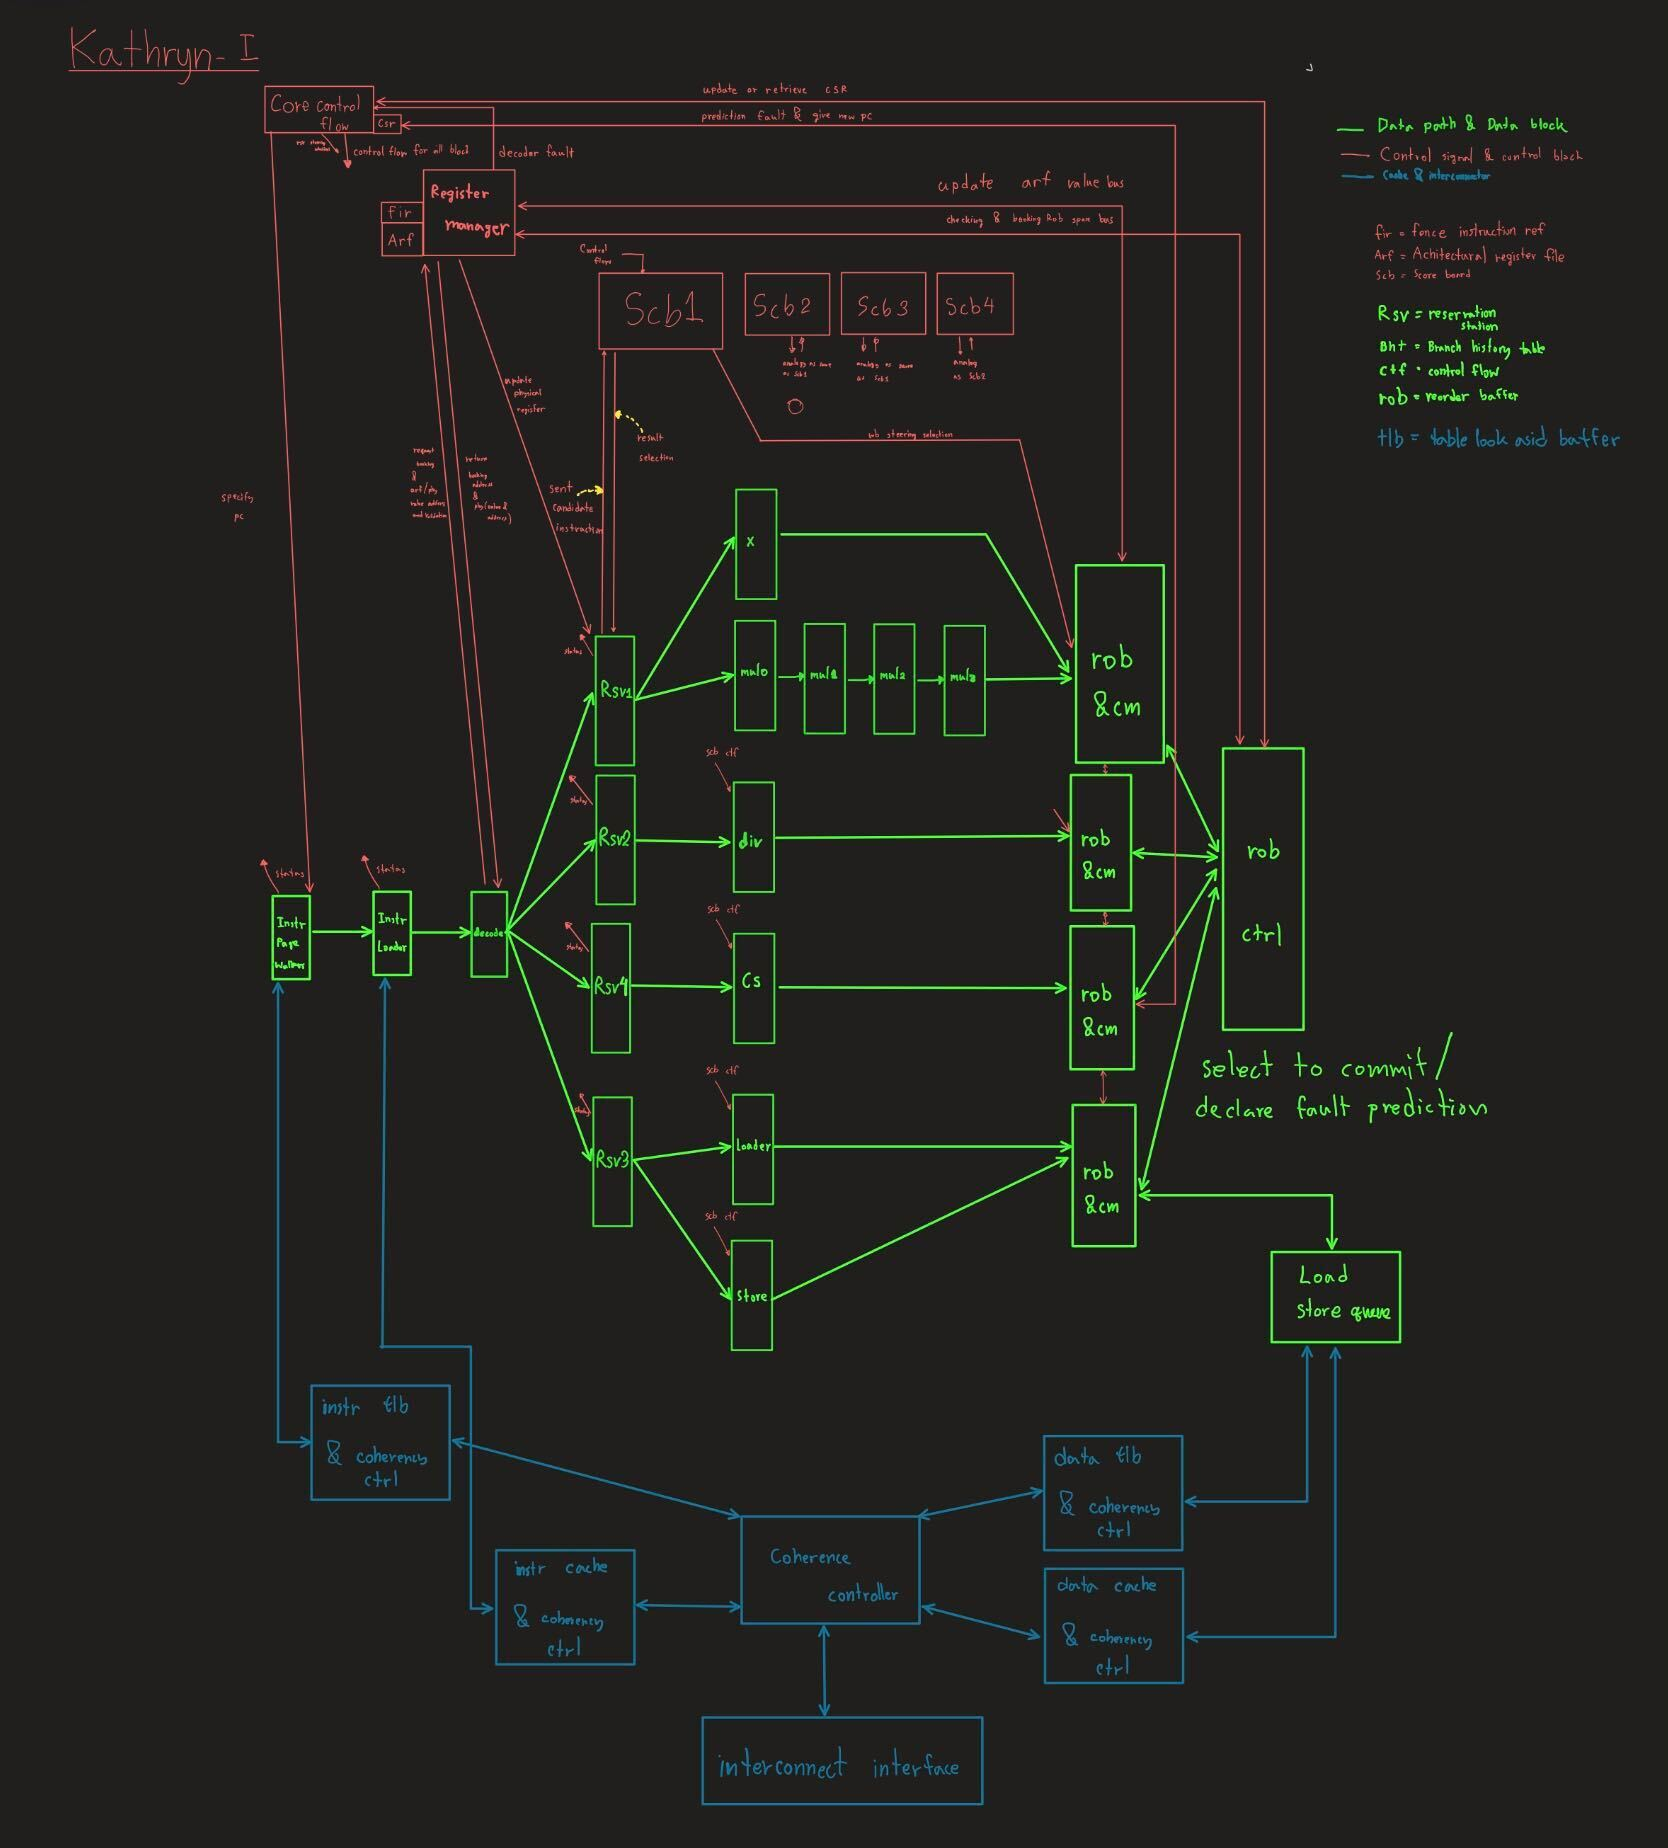
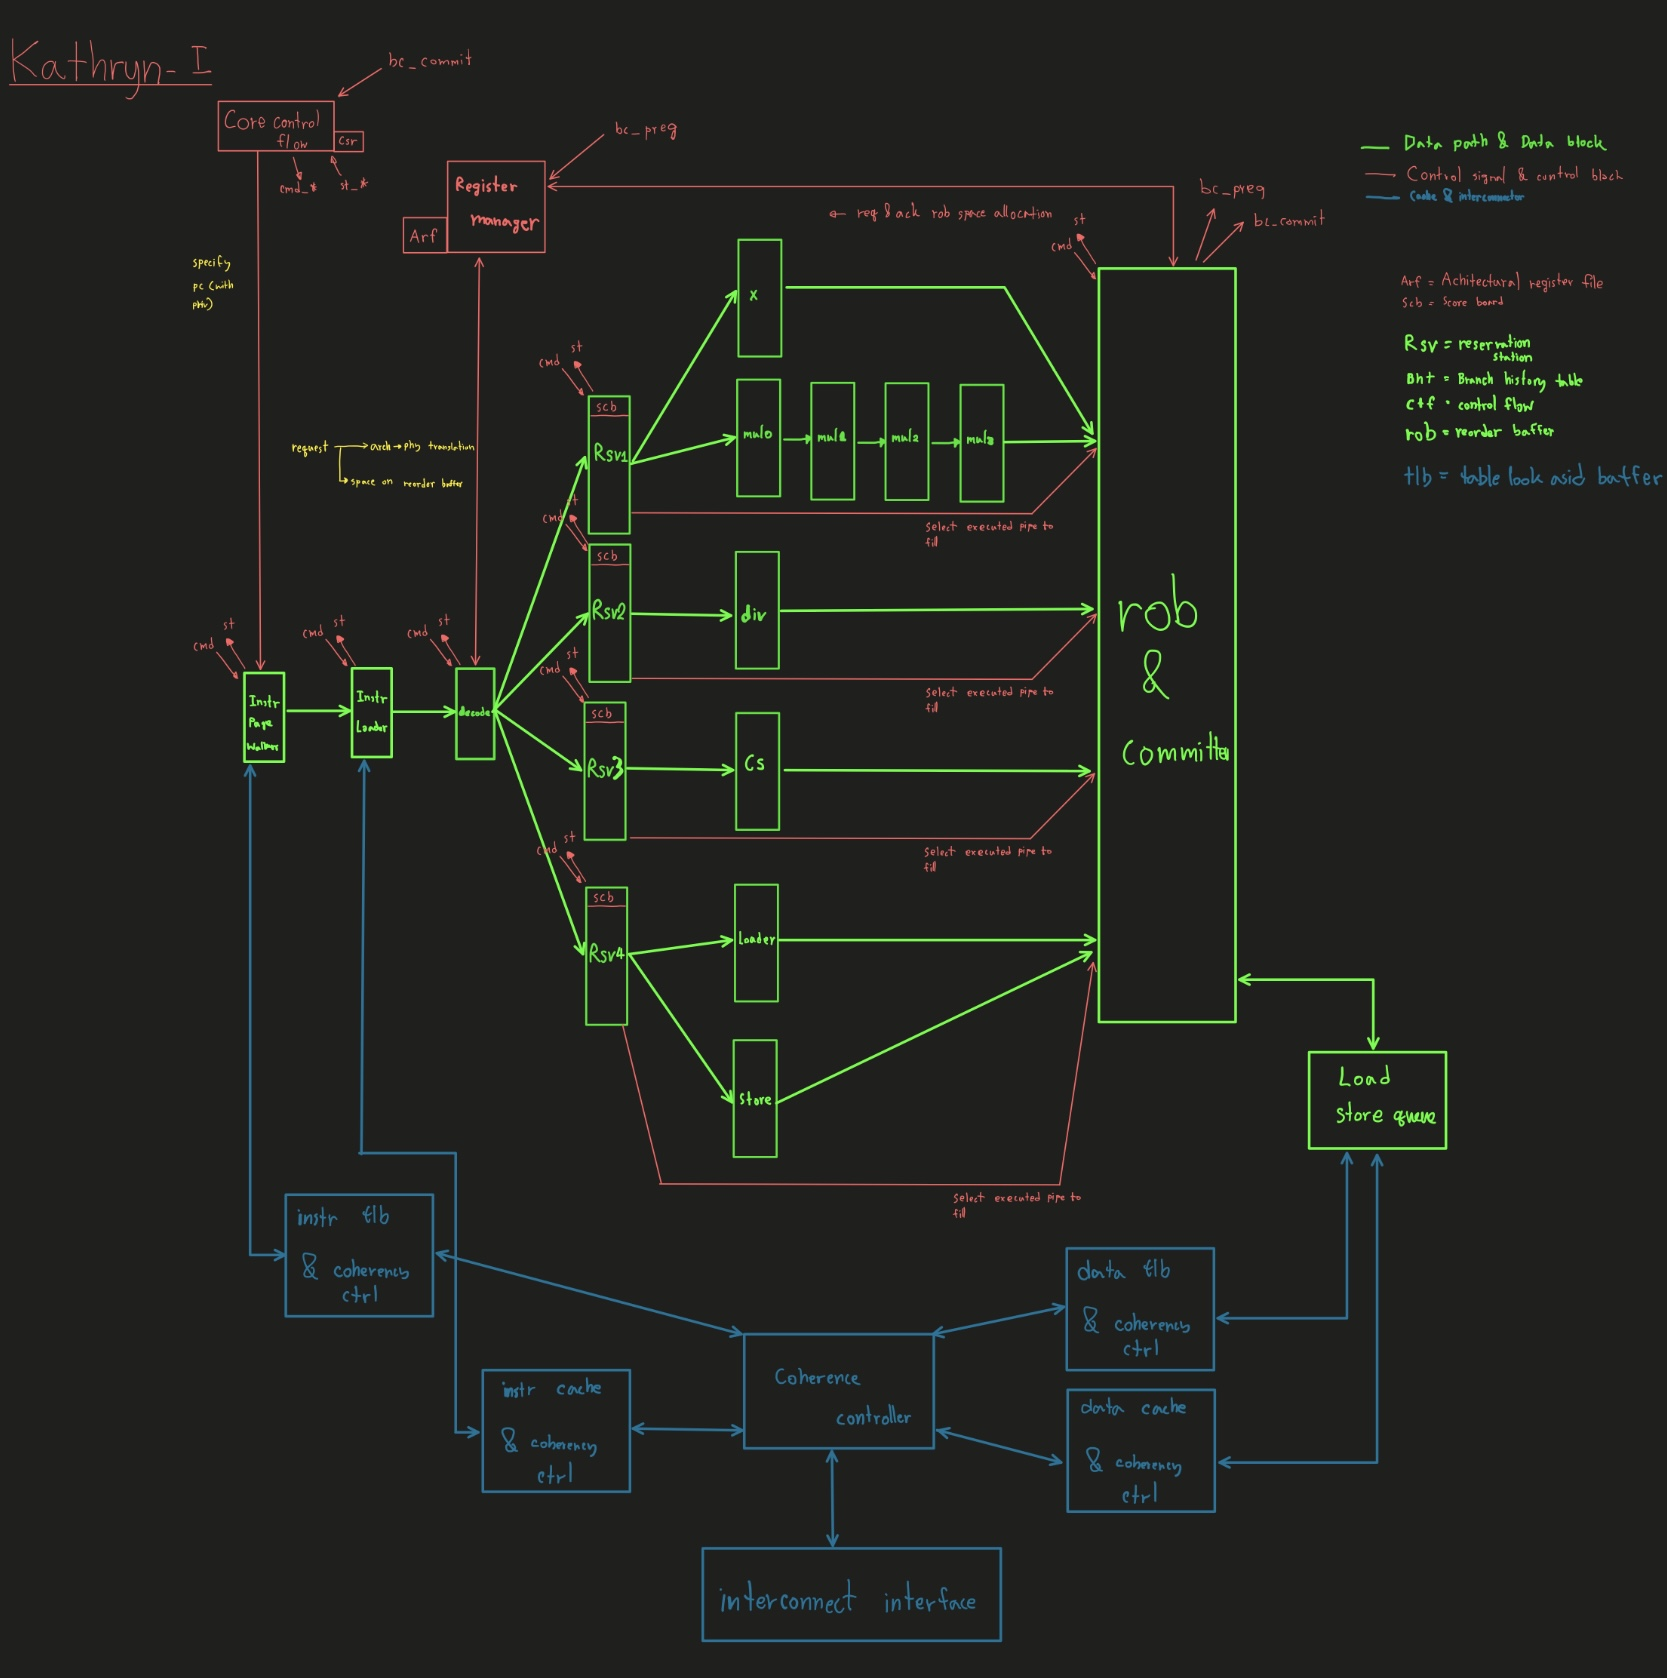
[CORE SPEC] ctrl flow and rob

diff --git a/README.md b/README.md
@@ -57,5 +57,5 @@ Purpose of Kathryn-I is
 - 28/03/2022 block diagram have been fixed(deleted fence). [BLOCK_DESC_FIXED](https://github.com/Tanawin1701d/Kathryn-I/blob/master/SPECIFICATION/Block_Description.ods)
 - 12/06/2022 DUE TO SYSTEM COMPLEXITY, SO I REDESIGNED BY USING INTERFACES AND NEW STATE DIAGRAMS TO ENCAPSULATE AND CLARIFY THE KATHRYN. [CORE_SPEC](https://github.com/Tanawin1701d/Kathryn-I/blob/master/SPECIFICATION/core_spec.ods)
 - 17/06/2022 add request interface from decoder to reg management specification [CORE_SPEC](https://github.com/Tanawin1701d/Kathryn-I/blob/master/SPECIFICATION/core_spec.ods)
-- 23/06/2022 add add commit director specifications and refactor core spec files [CORE_SPEC](https://github.com/Tanawin1701d/Kathryn-I/blob/master/SPECIFICATION/core_spec.ods)
-
+- 23/06/2022 add commit director interface specifications and refactor core spec files [CORE_SPEC](https://github.com/Tanawin1701d/Kathryn-I/blob/master/SPECIFICATION/core_spec.ods)
+- 25/06/2022 add control flow and reorder buffer interface specifications and refactor core spec files [CORE_SPEC](https://github.com/Tanawin1701d/Kathryn-I/blob/master/SPECIFICATION/core_spec.ods)
